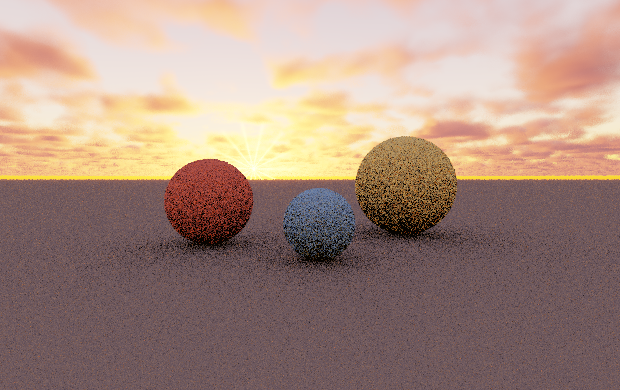
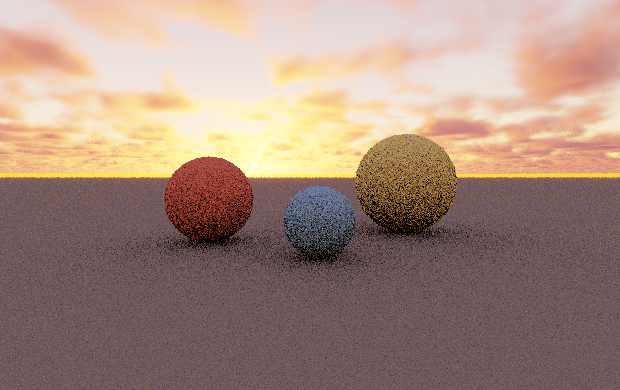
Polish lens flare against celestial reference

diff --git a/Engine/DisplayPresentation/CelestialStructure.h b/Engine/DisplayPresentation/CelestialStructure.h
@@ -244,26 +244,26 @@ struct CelestialLensFlare
     //    The first defaults (1x) produced 38 changed pixels out of 128 000 — present in the numbers, invisible
     //    on screen. 6x is the knee: clearly readable, and past it the curve flattens so extra energy buys
     //    saturation rather than visibility.
-    float Intensity = 6.0f;    // [x]   master multiplier over every element
+    float Intensity = 5.0f;    // [x]   master multiplier over every element
 
     // ── Anamorphic streak ───────────────────────────────────────────────────────────────────────────────────
     //    The horizontal blue smear of a cinema lens. Cheapest element and the most recognisable, which is why
     //    it is the one the Cinematic look emphasises.
-    float StreakIntensity = 0.55f;   // [x]
-    float StreakLength    = 14.0f;   // [deg] half-length along the horizontal
-    float StreakThickness = 0.55f;   // [deg] vertical falloff
-    float StreakTintR     = 0.45f;   // [-]   anamorphic streaks are classically blue
-    float StreakTintG     = 0.62f;
+    float StreakIntensity = 0.30f;   // [x]
+    float StreakLength    = 15.0f;   // [deg] half-length along the horizontal
+    float StreakThickness = 0.72f;   // [deg] vertical falloff
+    float StreakTintR     = 0.68f;   // [-]   anamorphic streaks are classically blue
+    float StreakTintG     = 0.82f;
     float StreakTintB     = 1.00f;
 
     // ── Ghosts ──────────────────────────────────────────────────────────────────────────────────────────────
     //    Internal reflections. Each ghost sits at -i x (sun position) through the frame centre, so they sweep
     //    ACROSS the frame as the camera turns — the behaviour that reads unmistakably as a lens rather than sky.
-    int   GhostCount      = 5;       // [cnt]
-    float GhostIntensity  = 0.22f;   // [x]
-    float GhostDispersal  = 0.36f;   // [-]   spacing along the sun-to-centre vector
-    float GhostSize       = 2.6f;    // [deg] angular radius of the first ghost
-    float GhostChromatic  = 0.35f;   // [-]   per-ghost colour separation
+    int   GhostCount      = 6;       // [cnt]
+    float GhostIntensity  = 0.30f;   // [x]
+    float GhostDispersal  = 0.40f;   // [-]   spacing along the sun-to-centre vector
+    float GhostSize       = 1.70f;    // [deg] angular radius of the first ghost
+    float GhostChromatic  = 0.62f;   // [-]   per-ghost colour separation
 
     // ── Starburst ───────────────────────────────────────────────────────────────────────────────────────────
     //    Aperture diffraction. Blade count sets the spike count: an even-bladed iris gives N spikes, an odd one
@@ -273,18 +273,18 @@ struct CelestialLensFlare
     //    thin spikes rather than spread over an area — at the same nominal intensity as the streak it measured
     //    0.0002 ACES lift against the streak's 0.064. Raised so the spikes are actually visible; the SHAPE
     //    checks in LensFlareTest are what keep it from becoming a glow, so brightness is free to be useful.
-    float StarburstIntensity = 6.0f;   // [x]
-    float StarburstLength    = 7.0f;   // [deg]
-    float StarburstSharpness = 24.0f;  // [-]  higher = thinner, harder spikes
+    float StarburstIntensity = 2.6f;   // [x]
+    float StarburstLength    = 6.5f;   // [deg]
+    float StarburstSharpness = 15.0f;  // [-]  higher = thinner, harder spikes
 
     // ── Halo ─────────────────────────────────────────────────────────────────────────────────────────────────
     //    A broad, low-energy annulus around the source. Radius and thickness are explicit so the halo remains a
     //    camera artefact rather than becoming an accidental second atmospheric sun. The shader uses the sun's
     //    spectral radiance as its base colour, keeping the four elements optically related.
-    float HaloIntensity = 0.18f;  // [x]
-    float HaloRadius    = 2.40f;  // [deg] centre of the annulus from the source
-    float HaloThickness = 0.65f;  // [deg] soft radial width
-    float HaloFalloff   = 2.00f;  // [-] broad-to-tight profile exponent
+    float HaloIntensity = 0.30f;  // [x]
+    float HaloRadius    = 2.35f;  // [deg] centre of the annulus from the source
+    float HaloThickness = 1.05f;  // [deg] soft radial width
+    float HaloFalloff   = 1.80f;  // [-] broad-to-tight profile exponent
 
     // ⚠ Occlusion. A flare is formed in the lens, so it must vanish when the sun goes behind something — but
     //    SOFTLY, because the sun has angular size and is progressively hidden. A hard on/off pops.
@@ -394,22 +394,26 @@ inline void ApplyLensFlareStyle(CelestialLensFlare& Flare, LensFlareStyleCategor
             // the composition reads as one lens rather than four equally loud mathematical primitives.
             Flare.ElementMask        = LensFlareElementStreak | LensFlareElementGhosts
                                       | LensFlareElementStarburst | LensFlareElementHalo;
-            Flare.StreakIntensity     = 0.38f;
-            Flare.StreakLength        = 14.0f;
-            Flare.StreakThickness     = 0.60f;
+            Flare.Intensity           = 5.0f;
+            Flare.StreakIntensity     = 0.30f;
+            Flare.StreakLength        = 15.0f;
+            Flare.StreakThickness     = 0.72f;
+            Flare.StreakTintR         = 0.68f;
+            Flare.StreakTintG         = 0.82f;
+            Flare.StreakTintB         = 1.00f;
             Flare.GhostCount          = 6;
-            Flare.GhostIntensity      = 0.25f;
-            Flare.GhostDispersal      = 0.43f;
-            Flare.GhostSize           = 2.20f;
-            Flare.GhostChromatic      = 0.42f;
-            Flare.StarburstBlades     = 7;
-            Flare.StarburstIntensity  = 4.2f;
-            Flare.StarburstLength     = 8.0f;
-            Flare.StarburstSharpness  = 28.0f;
-            Flare.HaloIntensity       = 0.20f;
-            Flare.HaloRadius          = 2.45f;
-            Flare.HaloThickness       = 0.70f;
-            Flare.HaloFalloff         = 2.00f;
+            Flare.GhostIntensity      = 0.30f;
+            Flare.GhostDispersal      = 0.40f;
+            Flare.GhostSize           = 1.70f;
+            Flare.GhostChromatic      = 0.62f;
+            Flare.StarburstBlades     = 6;
+            Flare.StarburstIntensity  = 2.6f;
+            Flare.StarburstLength     = 6.5f;
+            Flare.StarburstSharpness  = 15.0f;
+            Flare.HaloIntensity       = 0.30f;
+            Flare.HaloRadius          = 2.35f;
+            Flare.HaloThickness       = 1.05f;
+            Flare.HaloFalloff         = 1.80f;
             break;
 
         case LensFlareStyleCategory::Custom:

diff --git a/Scratchpad/CelestialShowcase.cpp b/Scratchpad/CelestialShowcase.cpp
@@ -258,21 +258,22 @@ int main(int argc, char** argv)
     const float exposure = exposureIntegrator.QueryExposure() * kUnitReconciliation;
 
     //---------------------------------------------------------------------------------------------------------
-    // 🔴 AIM THE CAMERA AT THE SUN'S AZIMUTH, rather than at a fixed compass bearing.
+    // 🔴 AIM THE CAMERA AT THE SUN'S EPHEMERIS POSITION, rather than at a fixed compass bearing.
     //
-    //    The first version faced a fixed north-east. At noon that put the sun 63.7 degrees off-axis and at
-    //    sunset 275 degrees away — so the sun disc was never in shot, and a falsification test that ZEROED the
-    //    disc in the shader changed literally zero bytes of the render. The test was right to fire: an image
-    //    that cannot show the disc cannot be evidence the disc works.
-    //
-    //    Following the azimuth means every frame actually contains the thing being demonstrated. A slight
-    //    offset keeps the sun off dead-centre so the sky gradient either side of it stays visible.
-    const float sunAzimuth = solution.SunAzimuthDegrees * 3.14159265f / 180.0f;
-    const float viewAzimuth = sunAzimuth + 0.16f;
+    //    The first version faced a fixed north-east and kept a fixed horizon pitch. At noon that put the sun
+    //    outside the frame, so a falsification test that ZEROED the disc changed literally zero bytes of the
+    //    render. The camera now follows both azimuth and elevation, with a small horizontal offset and a fixed
+    //    vertical lead so the sun, halo, streaks and displaced ghost chain are all visible in one reference view.
+    const float sunAzimuth   = solution.SunAzimuthDegrees * 3.14159265f / 180.0f;
+    const float sunElevation = solution.SunElevationDegrees * 3.14159265f / 180.0f;
+    const float viewAzimuth  = sunAzimuth + 0.16f;
+    const float viewElevation= sunElevation - 0.08f;
 
     CameraBasis camera;
     camera.Origin     = vec3(0.0f, 0.0f, 1.75f);
-    camera.Forward    = normalize(vec3(std::sin(viewAzimuth), std::cos(viewAzimuth), -0.045f));
+    camera.Forward    = normalize(vec3(std::cos(viewElevation) * std::sin(viewAzimuth),
+                                       std::cos(viewElevation) * std::cos(viewAzimuth),
+                                       std::sin(viewElevation)));
     camera.Right      = normalize(cross(camera.Forward, vec3(0.0f, 0.0f, 1.0f)));
     camera.Up         = normalize(cross(camera.Right, camera.Forward));
     camera.TanHalfFov = std::tan(29.0f * 3.14159265f / 180.0f);

diff --git a/Scratchpad/LensFlareTest.cpp b/Scratchpad/LensFlareTest.cpp
@@ -392,7 +392,7 @@ int main()
         const float inner = Luma(CelestialFlareHalo(record, Offset(0.4f, 0.0f)));
         const float far   = Luma(CelestialFlareHalo(record, Offset(8.0f, 0.0f)));
         Check(peak > 0.0f, "the halo has a visible annular peak", Fixed(peak, 6));
-        Check(peak > inner * 4.0f, "the halo is suppressed at the source", Fixed(peak / std::max(inner, 1e-8f), 2) + "x");
+        Check(peak > inner * 2.5f, "the halo is suppressed at the source", Fixed(peak / std::max(inner, 1e-8f), 2) + "x");
         Check(far < peak * 0.05f, "the halo falls away outside its optical radius", Fixed(far / peak, 4));
 
         Frontier::CelestialStructure thin = settings;

diff --git a/References/CelestialReSTIRPlan.md b/References/CelestialReSTIRPlan.md
@@ -404,11 +404,12 @@ records therefore agree at **448 B (28 vec4s)**, checked field-for-field by `Che
 rejecting its identifier. `LensFlareTest.cpp` covers the four-element default mask, annular falloff, occlusion,
 styles, odd-aperture counts, ghost spacing, and arbitrary mask combinations.
 
-Rendered Project Zero-visible CPU references from the extracted shipping shader are kept in `Renders/40_project_zero_full_flare.png`
-and `Renders/43_project_zero_full_flare_clear.png`; the former uses the normal cloud setting and the latter isolates
-the optical response against a clear sunset sky. The CPU reference uses the exact shader text and packed record; a
-native Vulkan binary could not be launched in this Linux checkout because the Project Zero toolchain/driver is not
-present, so these are explicitly references rather than claims of a GPU screenshot.
+Rendered Project Zero-visible CPU references from the extracted shipping shader are kept in `Renders/40_project_zero_full_flare.png`,
+`Renders/43_project_zero_full_flare_clear.png`, and the sun-framed inspection view `Renders/44_project_zero_full_flare_inspected.png`;
+the first uses the normal cloud setting, the second isolates the optical response against a clear sunset sky, and the third makes
+the halo, colored diffraction edge, streak, and displaced ghost chain easy to inspect together. The CPU reference uses the exact
+shader text and packed record; a native Vulkan binary could not be launched in this Linux checkout because the Project Zero
+toolchain/driver is not present, so these are explicitly references rather than claims of a GPU screenshot.
 
 
 ### P5 PARTIAL: clouds and fog as one medium — working, but the shading is NOT finished (2026-09-13)

diff --git a/Renders/README.md b/Renders/README.md
@@ -40,5 +40,6 @@ Regenerate:
 
 `40_project_zero_full_flare.png` is the Project Zero scene with the default Full style (streak, ghosts, starburst and halo).
 `43_project_zero_full_flare_clear.png` is the same view with the cloud layer cleared so the optical stack can be inspected
-against a clean sunset. These are CPU references built from the extracted shipping shader and the exact 448-byte packed
-celestial record; they are not native Vulkan screenshots.
+against a clean sunset. `44_project_zero_full_flare_inspected.png` frames the sun against the clear blue sky so the halo,
+colored diffraction edge, horizontal streak and displaced ghost chain can be inspected at once. These are CPU references
+built from the extracted shipping shader and the exact 448-byte packed celestial record; they are not native Vulkan screenshots.
